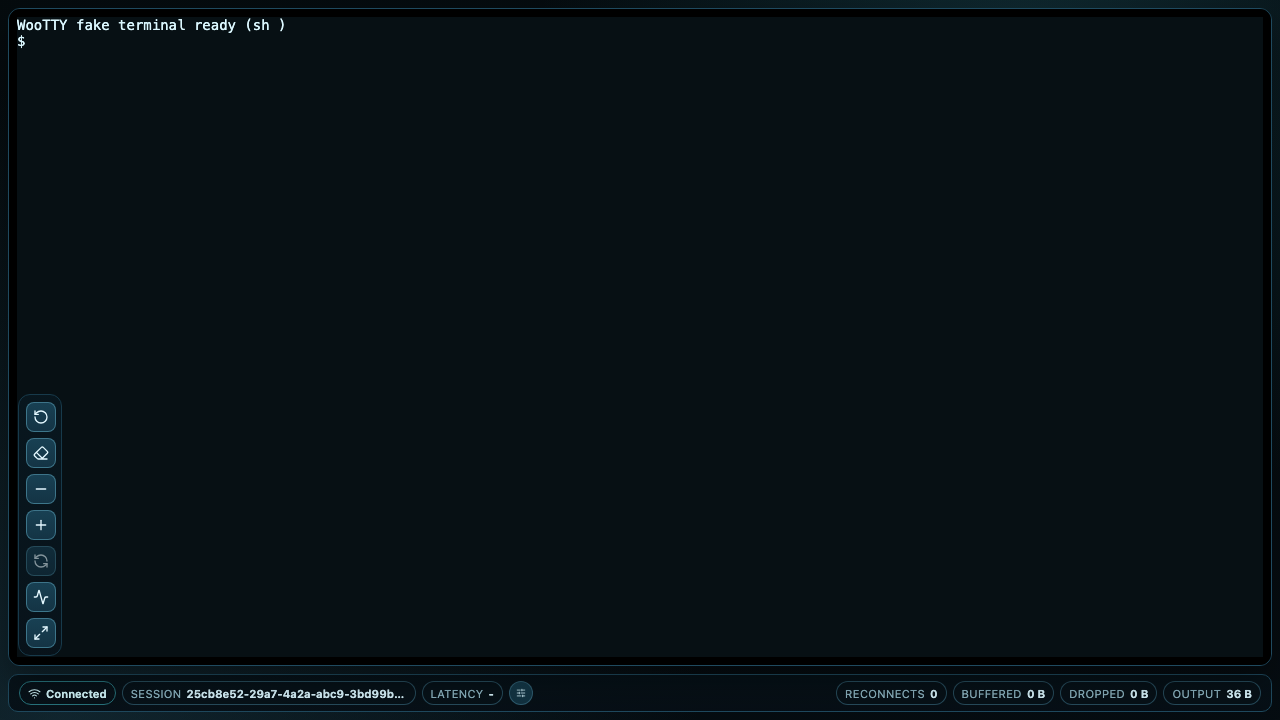
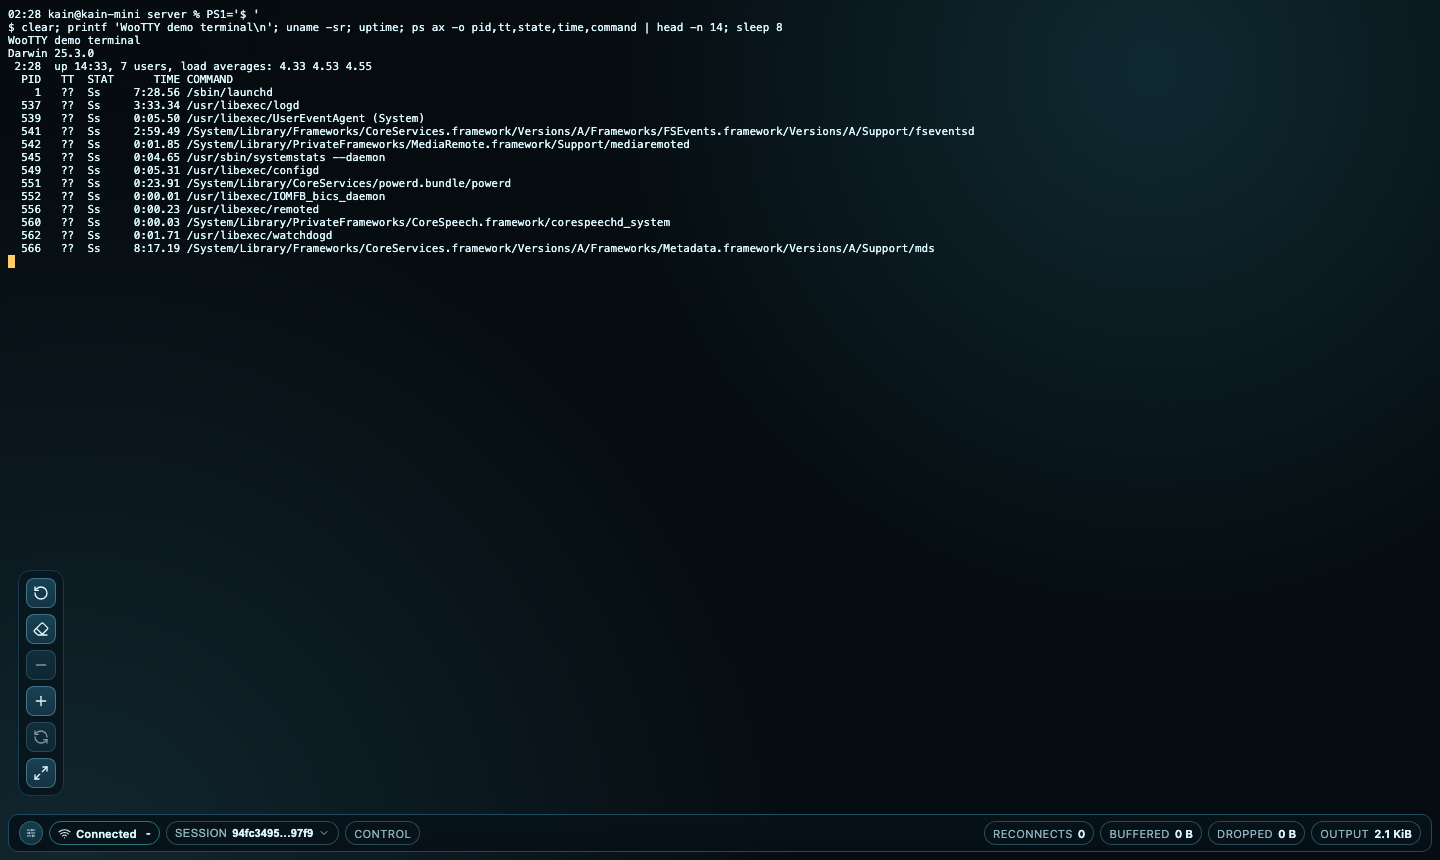
feat: tune terminal defaults and refresh docs screenshot

diff --git a/apps/web/src/App.tsx b/apps/web/src/App.tsx
@@ -26,6 +26,7 @@ import {
   createOutbox,
   enqueueOutbox,
   flushOutbox,
+  formatBytes,
   formatLatency,
   LAST_SESSION_STORAGE_KEY,
   parseServerMessage,
@@ -42,7 +43,7 @@ const outputEncoder = new TextEncoder();
 const FONT_SIZE_STORAGE_KEY = "wootty.fontSize";
 const FONT_SIZE_MIN = 11;
 const FONT_SIZE_MAX = 22;
-const DEFAULT_FONT_SIZE = 14;
+const DEFAULT_FONT_SIZE = FONT_SIZE_MIN;
 const CLOSE_CODE_PONG_TIMEOUT = 4103;
 const CLOSE_CODE_MANUAL_RECONNECT = 4101;
 const CLOSE_CODE_NEW_SESSION = 4102;
@@ -1312,7 +1313,12 @@ export default function App() {
               }}
             >
               <span>Session</span>
-              <strong data-testid="session-value">{sessionDisplay}</strong>
+              <strong
+                className="status-session__value"
+                data-testid="session-value"
+              >
+                {sessionDisplay}
+              </strong>
               <ChevronDown size={12} aria-hidden="true" />
             </button>
           </div>
@@ -1325,13 +1331,16 @@ export default function App() {
             Reconnects <strong>{reconnectAttempt}</strong>
           </span>
           <span className="status-item">
-            Buffered <strong>{queuedInputBytes} B</strong>
+            Buffered <strong>{formatBytes(queuedInputBytes)}</strong>
           </span>
           <span className="status-item">
-            Dropped <strong>{droppedInputBytes} B</strong>
+            Dropped <strong>{formatBytes(droppedInputBytes)}</strong>
           </span>
           <span className="status-item">
-            Output <strong data-testid="output-value">{outputBytes} B</strong>
+            Output{" "}
+            <strong data-testid="output-value" data-bytes={outputBytes}>
+              {formatBytes(outputBytes)}
+            </strong>
           </span>
         </div>
       </footer>

diff --git a/apps/web/test/app.integration.test.tsx b/apps/web/test/app.integration.test.tsx
@@ -34,7 +34,7 @@ const runtime = vi.hoisted(() => {
 
     constructor(options: unknown) {
       const typedOptions = (options ?? {}) as { fontSize?: number };
-      this.options = { fontSize: typedOptions.fontSize ?? 14 };
+      this.options = { fontSize: typedOptions.fontSize ?? 11 };
       FakeTerminal.instances.push(this);
     }
 
@@ -451,21 +451,21 @@ describe("App integration", () => {
     });
 
     expect(localStorage.getItem("wootty.fontSize")).toBeNull();
-    expect(runtime.FakeTerminal.instances[0].options.fontSize).toBe(14);
+    expect(runtime.FakeTerminal.instances[0].options.fontSize).toBe(11);
 
     await act(async () => {
       fireEvent.click(screen.getByTestId("font-increase-button"));
     });
 
-    expect(localStorage.getItem("wootty.fontSize")).toBe("15");
-    expect(runtime.FakeTerminal.instances[0].options.fontSize).toBe(15);
+    expect(localStorage.getItem("wootty.fontSize")).toBe("12");
+    expect(runtime.FakeTerminal.instances[0].options.fontSize).toBe(12);
 
     await act(async () => {
       fireEvent.click(screen.getByTestId("font-reset-button"));
     });
 
-    expect(localStorage.getItem("wootty.fontSize")).toBe("14");
-    expect(runtime.FakeTerminal.instances[0].options.fontSize).toBe(14);
+    expect(localStorage.getItem("wootty.fontSize")).toBe("11");
+    expect(runtime.FakeTerminal.instances[0].options.fontSize).toBe(11);
   });
 
   it("announces reconnect status changes for assistive tech", async () => {

diff --git a/apps/web/e2e/terminal.spec.ts b/apps/web/e2e/terminal.spec.ts
@@ -133,8 +133,10 @@ test("handles long output bursts without dropping connection", async ({
   await expect
     .poll(
       async () => {
-        const outputText = await page.getByTestId("output-value").textContent();
-        return Number.parseInt(outputText ?? "0", 10);
+        const bytesRaw = await page
+          .getByTestId("output-value")
+          .getAttribute("data-bytes");
+        return Number.parseInt(bytesRaw ?? "0", 10);
       },
       { timeout: 12_000 },
     )
@@ -158,14 +160,14 @@ test("font size controls update terminal preference", async ({ page }) => {
     .poll(async () => {
       return page.evaluate(() => localStorage.getItem("wootty.fontSize"));
     })
-    .toBe("15");
+    .toBe("12");
 
   await page.getByTestId("font-decrease-button").click();
   await expect
     .poll(async () => {
       return page.evaluate(() => localStorage.getItem("wootty.fontSize"));
     })
-    .toBe("14");
+    .toBe("11");
 
   await page.getByTestId("font-increase-button").click();
   await page.getByTestId("font-reset-button").click();
@@ -173,5 +175,5 @@ test("font size controls update terminal preference", async ({ page }) => {
     .poll(async () => {
       return page.evaluate(() => localStorage.getItem("wootty.fontSize"));
     })
-    .toBe("14");
+    .toBe("11");
 });

diff --git a/apps/web/src/styles.css b/apps/web/src/styles.css
@@ -9,7 +9,6 @@
   --line-soft: #173a4b;
   --accent: #35d0bb;
   --danger: #ff6f61;
-  --terminal-bg: #041018;
 }
 
 * {
@@ -67,22 +66,24 @@ body {
   min-height: 0;
   overflow: hidden;
   border: 0;
-  border-radius: 12px;
-  background: var(--terminal-bg);
+  border-radius: 0;
+  background: transparent;
 }
 
 .terminal-wrap .xterm {
   height: 100%;
   padding: 0;
+  background: transparent !important;
 }
 
 .terminal-wrap .xterm-screen,
-.terminal-wrap .xterm-screen canvas {
+.terminal-wrap .xterm-screen canvas,
+.terminal-wrap .xterm-scroll-area {
   background: transparent !important;
 }
 
 .terminal-wrap .xterm-viewport {
-  background-color: transparent;
+  background-color: transparent !important;
   scrollbar-width: thin;
   scrollbar-color: rgba(53, 130, 156, 0.78) transparent;
 }
@@ -337,10 +338,23 @@ body {
   min-width: 0;
 }
 
-.status-session__button strong {
+.status-session__button {
+  color: var(--ink-1);
+  font-size: 0.7rem;
+}
+
+.status-session__button svg {
+  color: var(--ink-1);
+}
+
+.status-session__button strong,
+.status-session__value {
   font-size: 0.7rem;
   font-weight: 640;
   font-variant-numeric: tabular-nums;
+  color: #daf6ff;
+  text-transform: none;
+  letter-spacing: normal;
 }
 
 .session-popover-layer {

diff --git a/apps/web/test/terminal-session.test.ts b/apps/web/test/terminal-session.test.ts
@@ -6,6 +6,7 @@ import {
   createOutbox,
   enqueueOutbox,
   flushOutbox,
+  formatBytes,
   formatLatency,
   LAST_SESSION_STORAGE_KEY,
   parseServerMessage,
@@ -105,5 +106,13 @@ describe("terminal-session helpers", () => {
     expect(formatLatency(null)).toBe("-");
     expect(formatLatency(20)).toBe("20ms");
     expect(formatLatency(1_250)).toBe("1.3s");
+  });
+
+  it("formats bytes for compact human-readable badges", () => {
+    expect(formatBytes(0)).toBe("0 B");
+    expect(formatBytes(36)).toBe("36 B");
+    expect(formatBytes(1_024)).toBe("1.0 KiB");
+    expect(formatBytes(15_360)).toBe("15 KiB");
+    expect(formatBytes(1_572_864)).toBe("1.5 MiB");
   });
 });

diff --git a/apps/web/src/lib/terminal-session.ts b/apps/web/src/lib/terminal-session.ts
@@ -208,3 +208,22 @@ export function formatLatency(latencyMs: number | null): string {
 
   return `${(latencyMs / 1_000).toFixed(1)}s`;
 }
+
+const BYTE_UNITS = ["B", "KiB", "MiB", "GiB", "TiB"];
+
+export function formatBytes(bytes: number): string {
+  const normalized = Math.max(0, Math.floor(bytes));
+  if (normalized < 1024) {
+    return `${normalized} B`;
+  }
+
+  let value = normalized;
+  let unitIndex = 0;
+  while (value >= 1024 && unitIndex < BYTE_UNITS.length - 1) {
+    value /= 1024;
+    unitIndex += 1;
+  }
+
+  const precision = value < 10 ? 1 : 0;
+  return `${value.toFixed(precision)} ${BYTE_UNITS[unitIndex]}`;
+}
